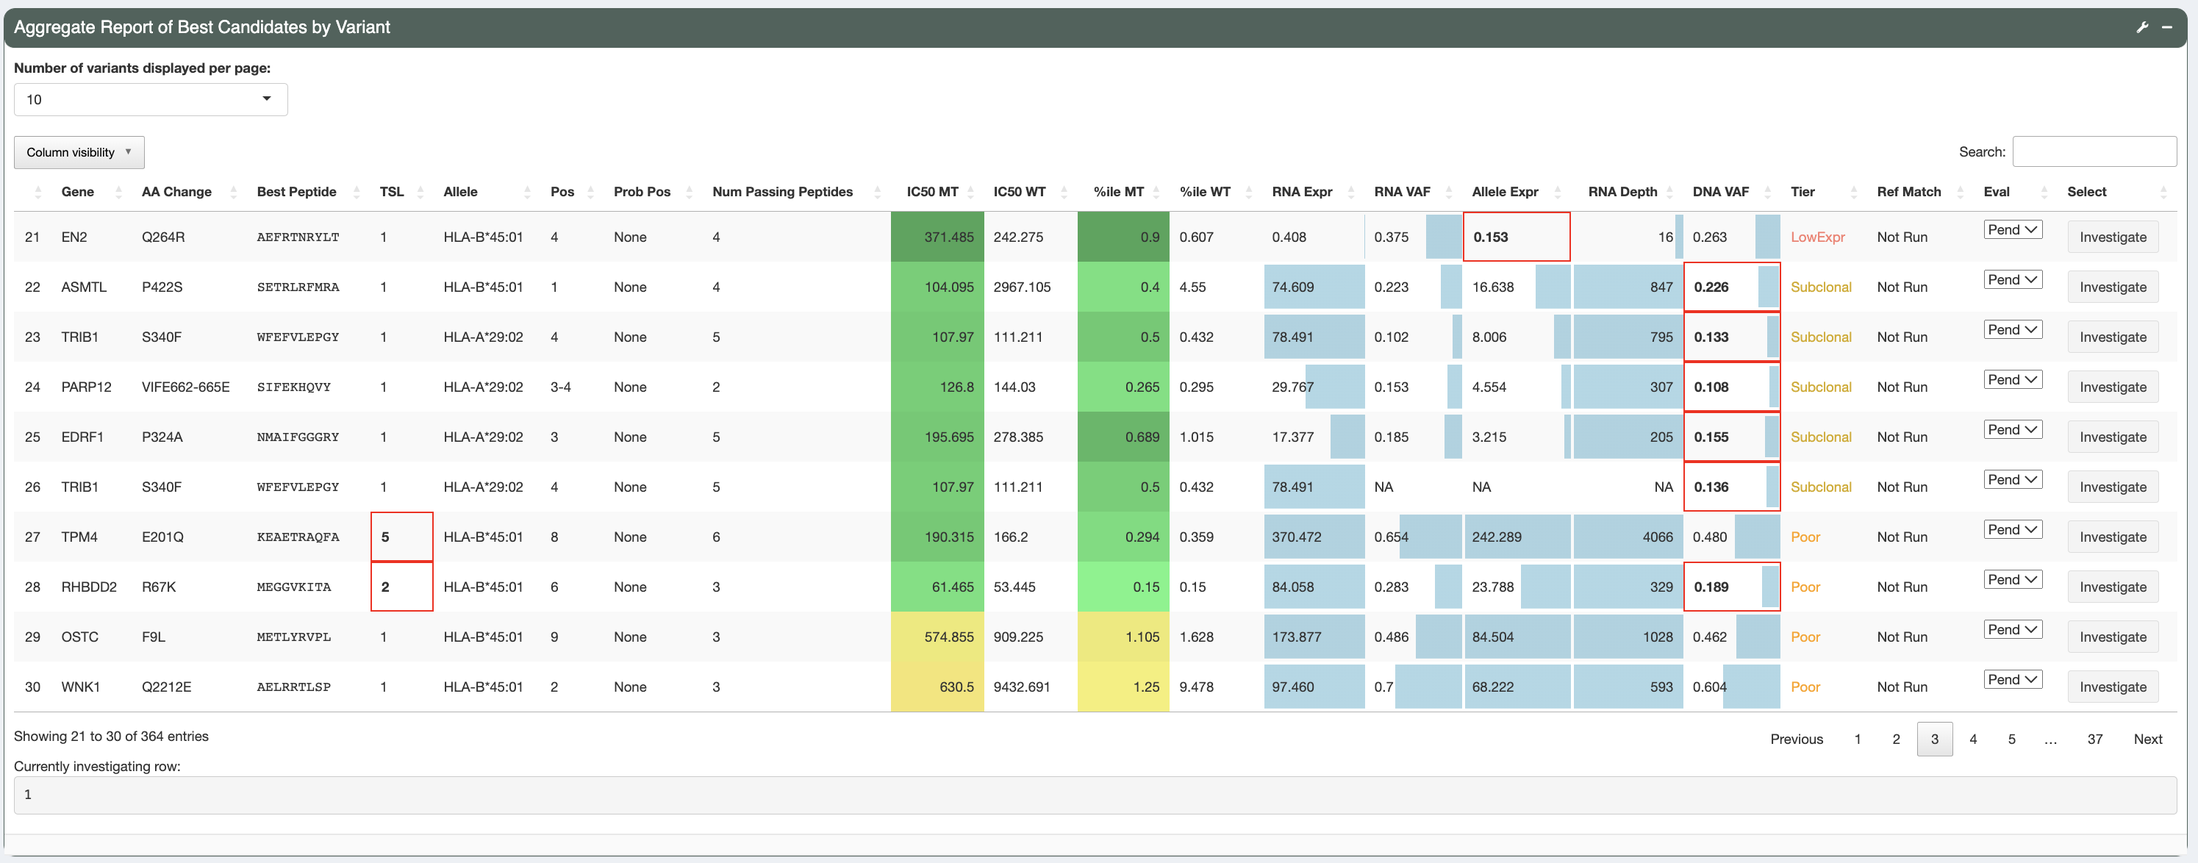
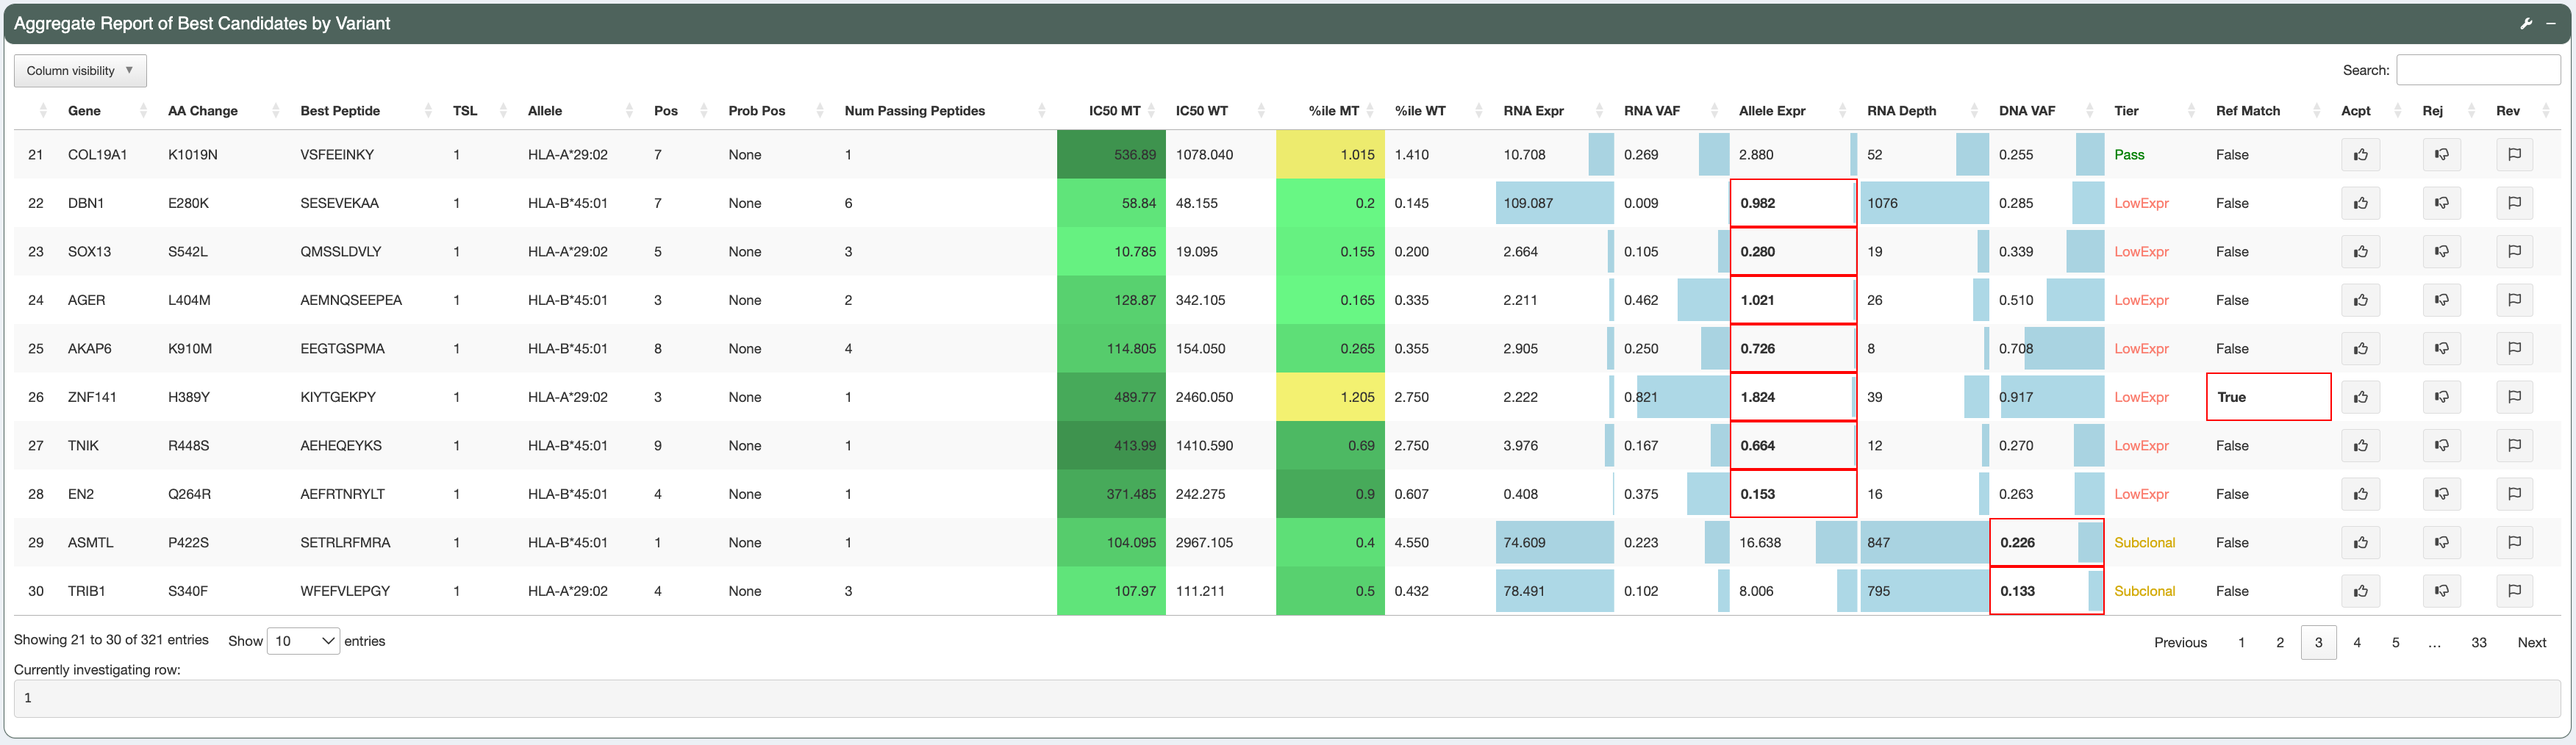
Update pVACview main module documentation and screenshots

diff --git a/docs/pvacview/pvacseq_module/pvacseq_vignette.rst b/docs/pvacview/pvacseq_module/pvacseq_vignette.rst
@@ -132,7 +132,9 @@ To set your own Tier-setting parameters, expand the **Advanced Options: Regenera
 
 The second row of the page spans the **Aggregate Report of Best Candidates by Variant** section, which lists all neoantigen candidates in the provided input. Candidates with a higher Tier will be shown first, followed by candidates of lower Tiers (Order of Tiers: ``Pass``, ``Anchor``, ``Subclonal``, ``Low Expr``, ``NoExpr``, ``Poor`` - see `Tiering criteria <https://pvactools.readthedocs.io/en/latest/pvacseq/output_files.html#tiers>`_). Genes that match with the user-input genes of interest list will have a green box around them (for example, ARID1B and MSH6 are covered by a green box in this demo). This feature can be useful for highlighting neoantigens derived from cancer driver genes.
 
-To view the variant, transcript, and peptide level information of a desired candidate, click on the ``Investigate`` button on the right side of the row for that candidate. The candidate currently under investigation will be framed in blue. The number of the row currently being investigated is indicated at the bottom of this section.
+To view the variant, transcript, and peptide level information of a desired candidate, click on the candidate's row
+to select it. The candidate currently under investigation will have a grey background. The number of the row
+currently being investigated is indicated at the bottom of this section.
 
 .. figure:: ../../images/screenshots/vignette/pvacview-aggrReportTable_withCGCgenesHighlighted.png
     :width: 1000px
@@ -237,23 +239,19 @@ Beside Class-I peptide, the best predicted Class-II peptide from user-input can 
 
 **Decision:**
 
-Given all the information above, we may conclude that the reviewed Class I peptide is potentially a good binder and choose to Accept this candidate in the ``Eval`` drop-down menu.
-
-.. figure:: ../../images/screenshots/vignette/KIF1C-new/KIF1C_11_Decision_1.png
+.. figure:: ../../images/screenshots/vignette/KIF1C-new/KIF1C_11_Decision.png
     :width: 1000px
     :align: right
     :alt: pVACview Vignette
     :figclass: align-left
 
-.. figure:: ../../images/screenshots/vignette/KIF1C-new/KIF1C_11_Decision_2.png
-    :width: 1000px
-    :align: right
-    :alt: pVACview Vignette
-    :figclass: align-left
+Given all the information above, we may conclude that the reviewed Class I peptide is potentially a good binder and
+choose to accept this candidate by clicking the thumbs-up button.
 
 
 Example 2: a good candidate derived from a variant with multiple transcript sets: ADAR-E806V: AERMGFTVV
 ^^^^^^^^^^^^^^^^^^^^^^^^^^^^^^^^^^^^^^^^^^^^^^^^^^^^^^^^^^^^^^^^^^^^^^^^^^^^^^^^^^^^^^^^^^^^^^^^^^^^^^^
+
 .. figure:: ../../images/screenshots/vignette/ADAR/ADAR_0.png
     :width: 1000px
     :align: right
@@ -350,7 +348,8 @@ The candidate sequence also has no match with any known peptide in the human pro
 
 **Decision:**
 
-Given all the information above, we can conclude that the reviewed Class I peptide is potentially a good binder and choose to Accept this candidate in the ``Eval`` drop-down menu.
+Given all the information above, we can conclude that the reviewed Class I peptide is potentially a good binder and
+choose to accept by clicking the thumbs-up button.
 
 Example 3: a bad candidate: ZNF141-H389Y: KIYTGEKPY
 ^^^^^^^^^^^^^^^^^^^^^^^^^^^^^^^^^^^^^^^^^^^^^^^^^^^
@@ -376,7 +375,8 @@ These potentially problematic characteristics are also flagged by the red boxes 
 
 **Decision:**
 
-Since the candidate peptide has a match in the reference proteome, we will reject this candidate.
+Since the candidate peptide has a match in the reference proteome, we will reject this candidate by clicking the
+thumbs-down button.
 
 
 Export

diff --git a/docs/pvacview/pvacseq_module/pvacseq_upload.rst b/docs/pvacview/pvacseq_module/pvacseq_upload.rst
@@ -160,18 +160,21 @@ used originally by clicking the ``Reset to original paramters`` button.
 Investigating Different Variants
 ********************************
 
-To investigate a specific variant in detail (on both the transcript and peptide levels), you will need to click on the investigate button located in the select column of the main aggregate report table (last column).
-Afterwards, you may choose to select a rating for the neoantigen candidate using the Eval column. By default, all peptides are initially in a Pending state when the report is generated from pVACseq. Based on
-exploration and evaluation of the features provided, you can mark the peptide as either ``Accept``, ``Reject``, or ``Review``. Your current state of selections are also counted and shown in the ``Peptide Evaluation Overview`` box.
+To investigate a specific variant in detail (on both the transcript and peptide levels), you will need to click on
+the candidate's row in the main aggregate report table. Afterwards, you may choose to select a rating for the
+neoantigen candidate using the three buttons on the right of the candidate's row. By default, all peptides are initially in a Pending state when the report is generated from pVACseq. Based on
+exploration and evaluation of the features provided an none of the buttons are selected. You can mark the peptide as
+either "Accept" (thumb-up button), "Reject" (thumbs-down button), or "Review" (flag button). Your current state of
+selections are also counted and shown in the ``Peptide Evaluation Overview`` box.
 
 .. figure:: ../../images/screenshots/pvacview-comments.png
     :width: 800px
     :align: right
-    :alt: pVACview Upload
+    :alt: pVACview comment interface
     :figclass: align-left
 
 Users can add comments to each line of variants they are investigating. These comments can be reviewed in the Export page
-and will be in the final output (either tsv or excel) when downloaded. This column is by default ``N/A`` unless the input
+and will be in the final output (either tsv or excel) when downloaded. This column is by default ``No comments`` unless the input
 aggregate report has a ``Comments`` column pre-specified.
 
 :large:`Export`
